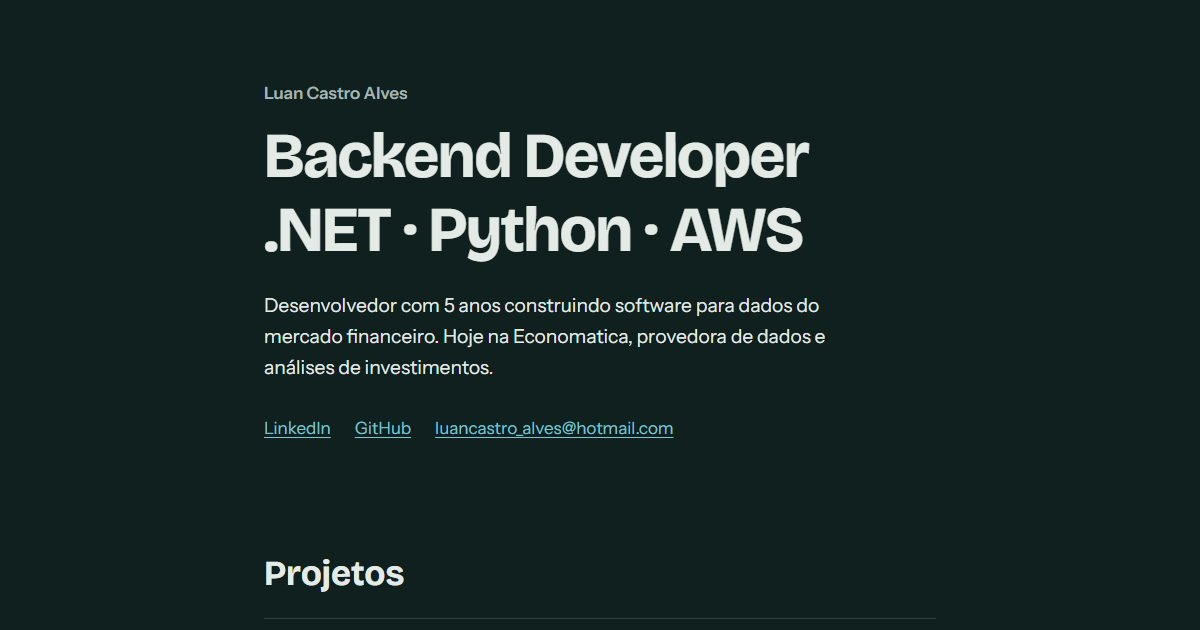
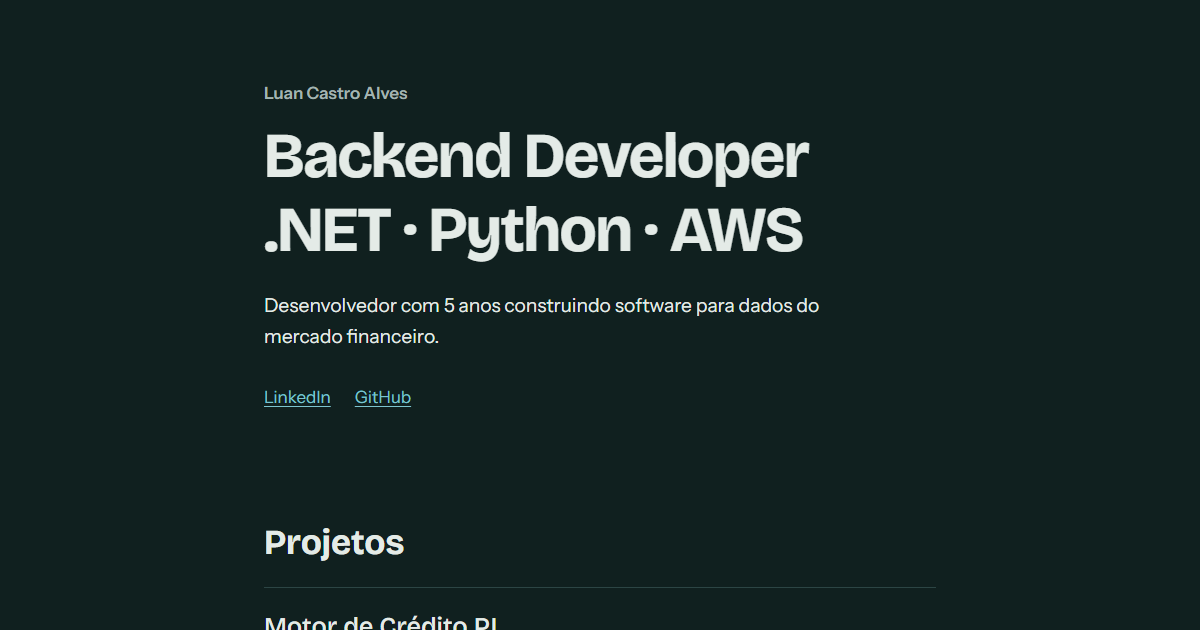
chore: contato só pelo LinkedIn e sem nome de empregador

diff --git a/index.html b/index.html
@@ -23,11 +23,10 @@
   <header class="hero wrap">
     <p class="hero-name">Luan Castro Alves</p>
     <h1>Backend Developer<span class="sr"> · </span><span class="h1-stack">.NET · Python · AWS</span></h1>
-    <p class="lede">Desenvolvedor com 5 anos construindo software para dados do mercado financeiro. Hoje na Economatica, provedora de dados e análises de investimentos.</p>
+    <p class="lede">Desenvolvedor com 5 anos construindo software para dados do mercado financeiro.</p>
     <nav class="hero-links" aria-label="Perfis">
       <a href="https://www.linkedin.com/in/luan-castro-alves">LinkedIn</a>
       <a href="https://github.com/Bugvoid">GitHub</a>
-      <a href="mailto:luancastro_alves@hotmail.com">luancastro_alves@hotmail.com</a>
     </nav>
   </header>
 
@@ -83,7 +82,7 @@
     <section id="experiencia" class="wrap" aria-labelledby="experiencia-titulo">
       <h2 id="experiencia-titulo">Experiência</h2>
       <ol class="timeline">
-        <li><time>ago/2021 – hoje</time><h3>Desenvolvedor de software</h3><p>Economatica, São Paulo</p></li>
+        <li><time>ago/2021 – hoje</time><h3>Desenvolvedor de software</h3><p>Dados do mercado financeiro, São Paulo</p></li>
         <li><time>mai/2019 – ago/2021</time><h3>Analista de desenvolvimento</h3><p>Comunikime, São Paulo</p></li>
         <li><time>jan/2017 – mai/2019</time><h3>Analista de suporte de TI</h3><p>Castro Alves Contabilidade, São Paulo</p></li>
         <li><time>dez/2016 – dez/2017</time><h3>Assistente de suporte de TI</h3><p>Castro Alves Contabilidade, São Paulo</p></li>
@@ -113,9 +112,7 @@
     <h2>Contato</h2>
     <p>Aberto a conversas sobre vagas de engenharia de software no mercado financeiro.</p>
     <p class="contact">
-      <a href="mailto:luancastro_alves@hotmail.com">luancastro_alves@hotmail.com</a>
-      <a href="https://www.linkedin.com/in/luan-castro-alves">LinkedIn</a>
-      <a href="https://github.com/Bugvoid">GitHub</a>
+      <a href="https://www.linkedin.com/in/luan-castro-alves">Fale comigo no LinkedIn</a>
     </p>
   </footer>
 </body>
